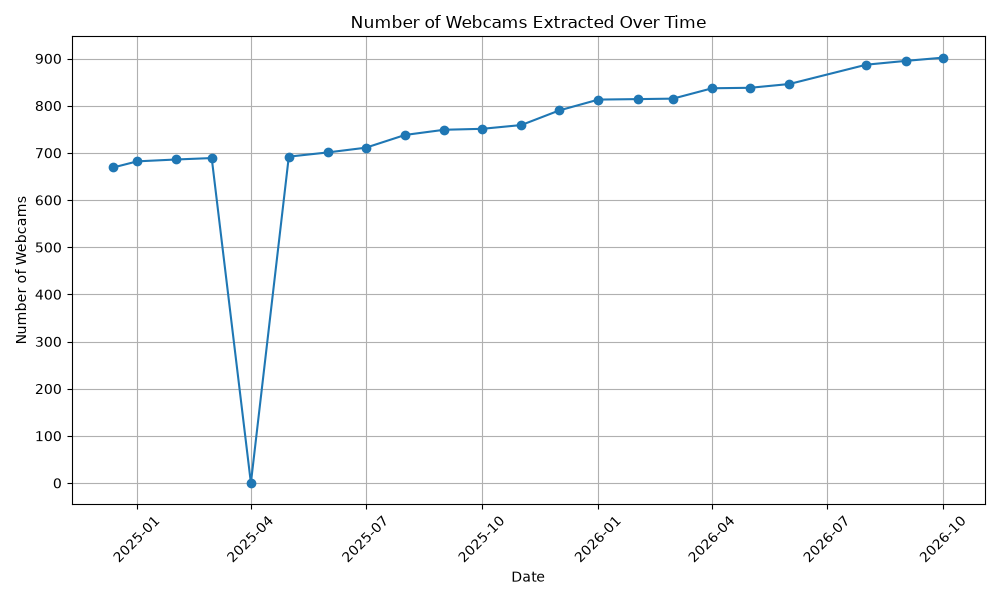
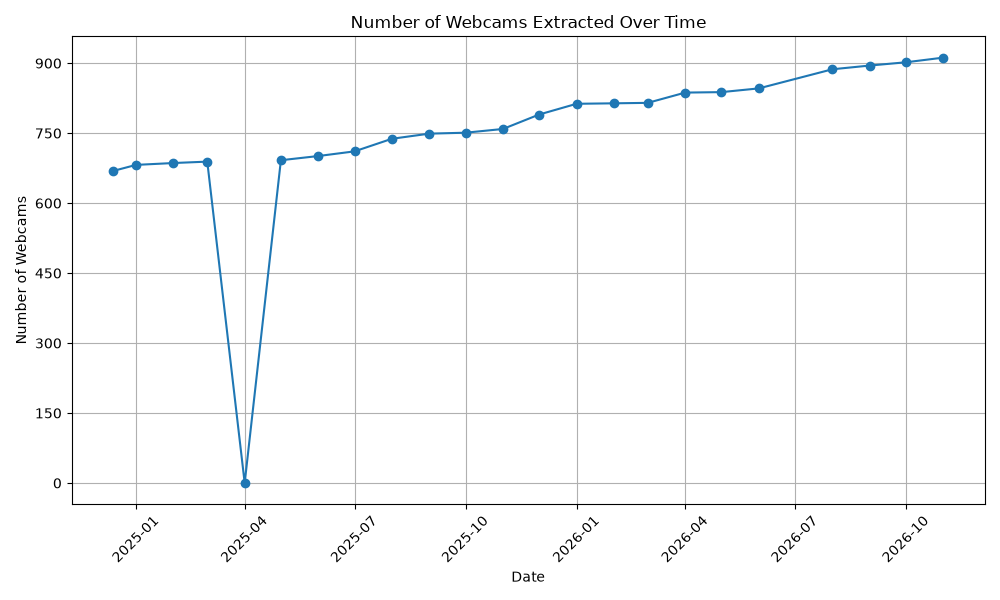
Skaping 2026-11-01

diff --git a/Skaping/README.md b/Skaping/README.md
@@ -1,10 +1,10 @@
 # Skaping 🎥
 
-**Data last updated on: '2026-10-01''2026-09-01''2026-08-01''2026-06-01''2026-05-01''2026-04-01''2026-03-01''2026-02-01''2026-01-01''2025-12-01''2025-11-01''2025-10-01''2025-09-01''2025-08-01''2025-07-01''2025-06-01'**
+**Data last updated on: '2026-11-01''2026-10-01''2026-09-01''2026-08-01''2026-06-01''2026-05-01''2026-04-01''2026-03-01''2026-02-01''2026-01-01''2025-12-01''2025-11-01''2025-10-01''2025-09-01''2025-08-01''2025-07-01''2025-06-01'**
 
 Data extracted from: [Skaping](https://www.skaping.com)
 
-![History Diagram](webcam_count_history.png?img_date='2026-10-01''2026-09-01''2026-08-01''2026-06-01''2026-05-01''2026-04-01''2026-03-01''2026-02-01''2026-01-01''2025-12-01''2025-11-01''2025-10-01''2025-09-01''2025-08-01''2025-07-01''2025-06-01')
+![History Diagram](webcam_count_history.png?img_date='2026-11-01''2026-10-01''2026-09-01''2026-08-01''2026-06-01''2026-05-01''2026-04-01''2026-03-01''2026-02-01''2026-01-01''2025-12-01''2025-11-01''2025-10-01''2025-09-01''2025-08-01''2025-07-01''2025-06-01')
 
 ## 📅 Use the Latest Data Scraped Each Month
 
